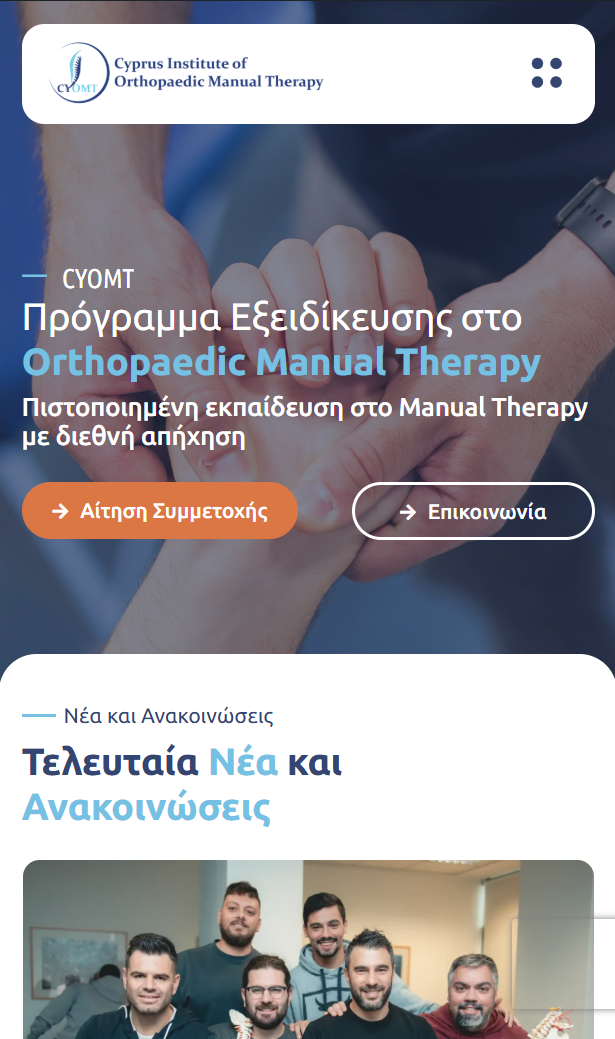
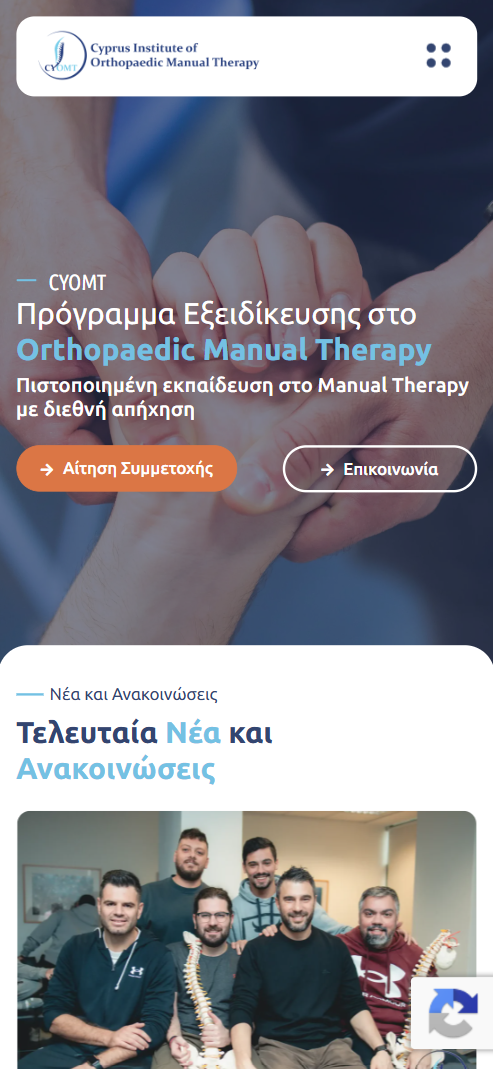
Refine CY-OMT mobile presentation

diff --git a/src/routes/projects.$slug.tsx b/src/routes/projects.$slug.tsx
@@ -349,7 +349,6 @@ function ProjectPage() {
                   <ul className="case-list mt-4">
                     <li>WordPress</li>
                     <li>Elementor</li>
-                    <li>Jupiter X</li>
                     <li>Responsive layouts</li>
                     <li>Application forms</li>
                     <li>Reliable email delivery</li>
@@ -364,35 +363,13 @@ function ProjectPage() {
               </div>
             </div>
 
-            <div className="mt-24 grid items-center gap-12 border-t border-hairline pt-16 md:mt-32 md:grid-cols-12 md:pt-24">
-              <div className="static-phone-detail flex justify-center md:col-span-4">
-                <PhonePreview
-                  src={asset("cy-omt-mobile-menu.png")}
-                  alt="Expanded CY-OMT mobile navigation showing programme sections"
-                />
-              </div>
-              <div className="md:col-span-5 md:col-start-7">
-                <div className="font-mono-label text-muted-foreground">
-                  Navigation detail — 04
-                </div>
-                <h2 className="mt-5 font-display text-3xl">
-                  Complex programme content, kept within reach.
-                </h2>
-                <p className="mt-5 leading-relaxed text-muted-foreground">
-                  The compact mobile navigation exposes the programme philosophy,
-                  characteristics, instructors, IFOMPT information, application
-                  forms, research activity and contact page without adding a heavy
-                  conventional menu.
-                </p>
-              </div>
-            </div>
           </section>
 
           <section className="border-y border-hairline">
             <div className="mx-auto grid max-w-[1400px] items-center gap-16 px-6 py-20 md:grid-cols-12 md:px-12 md:py-32">
               <div className="md:col-span-4">
                 <div className="font-mono-label text-muted-foreground">
-                  Responsive presentation — 05
+                  Responsive presentation — 04
                 </div>
                 <h2 className="mt-5 font-display text-4xl leading-tight md:text-5xl">
                   Clear calls to action across smaller screens.
@@ -418,7 +395,7 @@ function ProjectPage() {
           <section>
             <div className="mx-auto grid max-w-[1400px] gap-12 px-6 py-20 md:grid-cols-12 md:px-12 md:py-32">
               <div className="md:col-span-3">
-                <div className="font-mono-label text-muted-foreground">Outcome — 06</div>
+                <div className="font-mono-label text-muted-foreground">Outcome — 05</div>
               </div>
               <div className="md:col-span-8 md:col-start-5">
                 <p className="font-display text-3xl leading-tight md:text-5xl">

diff --git a/src/styles.css b/src/styles.css
@@ -256,26 +256,7 @@ body::before {
 }
 
 .cy-omt-phone-pair .phone {
-  aspect-ratio: 615 / 1035;
-}
-
-.static-phone-detail .phone {
-  width: min(70vw, 270px);
-  aspect-ratio: 615 / 1035;
-}
-
-.static-phone-detail .device-scroll img,
-.static-phone-detail .device-scroll:hover img {
-  width: 100%;
-  height: 100%;
-  object-fit: contain;
-  object-position: top;
-  transform: none;
-  transition: none;
-}
-
-.static-phone-detail .device-hint {
-  display: none;
+  aspect-ratio: 493 / 1069;
 }
 
 .device-scroll img {
